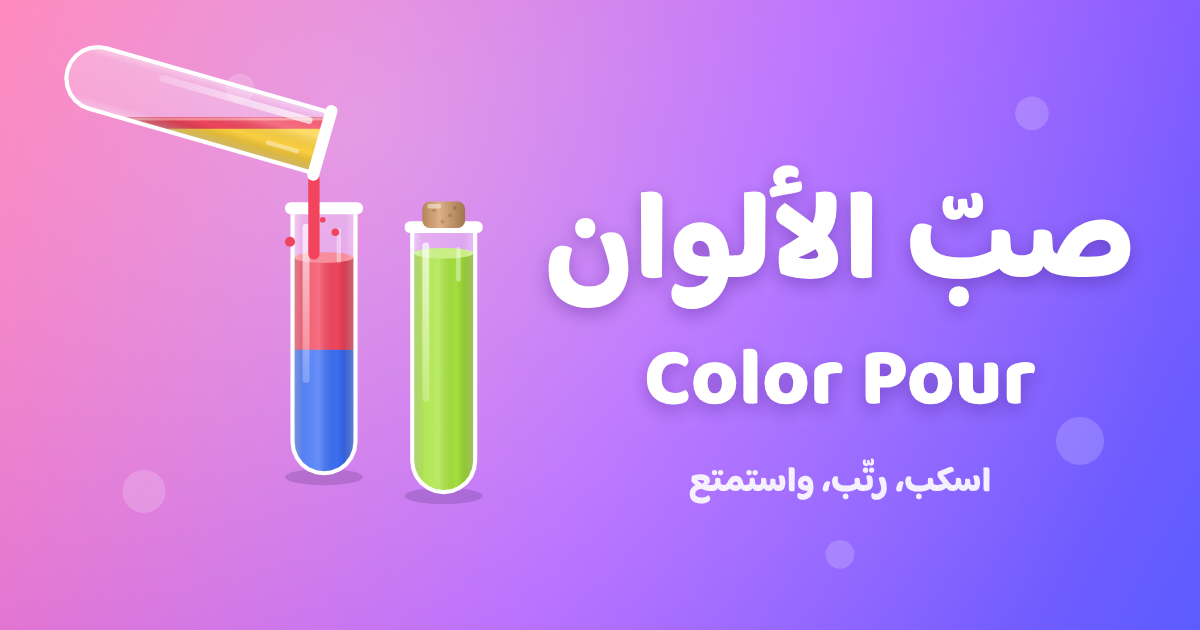
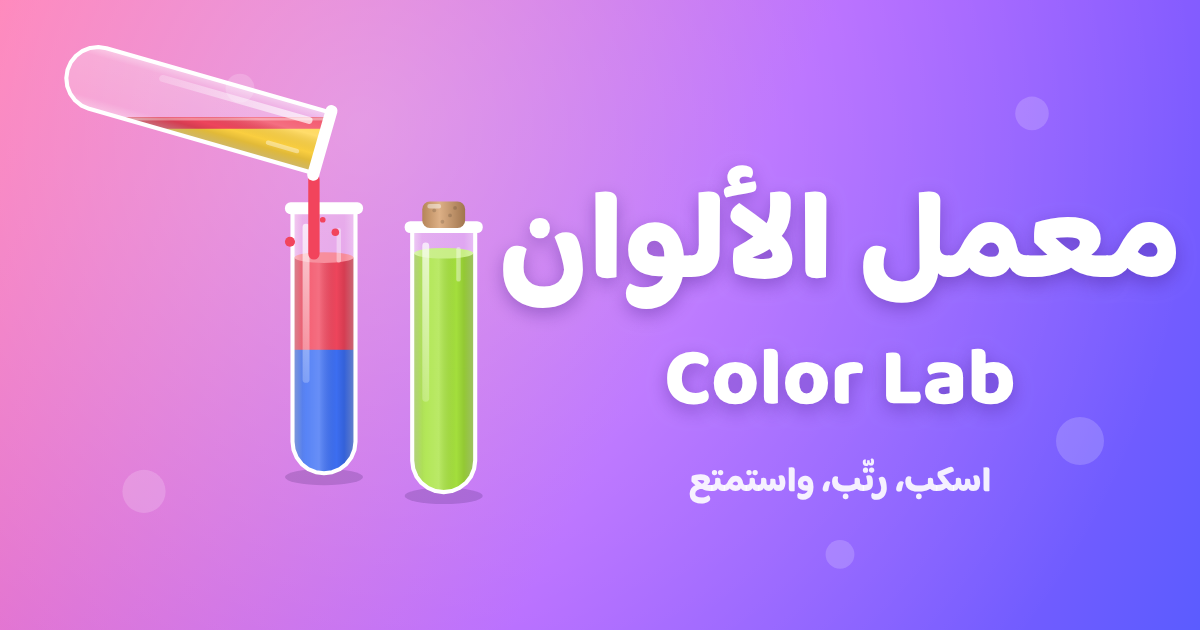
Rename the game to Color Lab / معمل الألوان
Claude-Session: https://claude.ai/code/session_018fWx3sb4k38H3yoaSVgWyv

Changed region(s): [[0.4008, 0.2413, 0.9867, 0.5127], [0.5242, 0.5429, 0.8633, 0.6635]]

diff --git a/tools/make-icons.js b/tools/make-icons.js
@@ -62,9 +62,9 @@ window.draw = (kind, w, h) => {
     ctx.textAlign = 'center';
     ctx.shadowColor = 'rgba(60,20,120,0.35)'; ctx.shadowBlur = 18; ctx.shadowOffsetY = 6;
     ctx.font = '800 ' + Math.round(h * 0.2) + 'px "Baloo Bhaijaan 2", sans-serif';
-    ctx.fillText('صبّ الألوان', w * 0.7, h * 0.44);
+    ctx.fillText('معمل الألوان', w * 0.7, h * 0.44);
     ctx.font = '800 ' + Math.round(h * 0.13) + 'px "Baloo Bhaijaan 2", sans-serif';
-    ctx.fillText('Color Pour', w * 0.7, h * 0.64);
+    ctx.fillText('Color Lab', w * 0.7, h * 0.64);
     ctx.shadowBlur = 0; ctx.shadowOffsetY = 0;
     ctx.font = '800 ' + Math.round(h * 0.055) + 'px "Baloo Bhaijaan 2", sans-serif';
     ctx.fillStyle = 'rgba(255,255,255,0.9)';
@@ -78,7 +78,7 @@ window.draw = (kind, w, h) => {
   const browser = await chromium.launch();
   const p = await browser.newPage();
   await p.setContent(page, { waitUntil: 'networkidle' }).catch(() => {});
-  await p.evaluate(async () => { await document.fonts.load('800 60px "Baloo Bhaijaan 2"', 'صبّ الألوان Color Pour'); await document.fonts.ready; });
+  await p.evaluate(async () => { await document.fonts.load('800 60px "Baloo Bhaijaan 2"', 'معمل الألوان Color Lab'); await document.fonts.ready; });
   console.log('font loaded:', await p.evaluate(() => document.fonts.check('800 60px "Baloo Bhaijaan 2"', 'صب')));
   const jobs = [
     ['icon', 512, 512, 'icon-512.png'], ['icon', 192, 192, 'icon-192.png'], ['icon', 180, 180, 'apple-touch-icon.png'],

diff --git a/src/index.html b/src/index.html
@@ -1,4 +1,4 @@
-<title>Color Pour</title>
+<title>Color Lab</title>
 <meta name="claude:viewport-fit-sides" content="cover">
 <link rel="preconnect" href="https://fonts.googleapis.com">
 <link rel="preconnect" href="https://fonts.gstatic.com" crossorigin>
@@ -50,7 +50,7 @@
 
       <div class="title-block">
         <div class="logo-frame">
-          <h1 class="logo">Color Pour</h1>
+          <h1 class="logo">Color Lab</h1>
           <svg class="logo-flask" viewBox="0 0 48 64" aria-hidden="true"><path d="M17 4h14v14l12 22a14 14 0 0 1-12 21H17A14 14 0 0 1 5 40l12-22z" fill="#FFFFFF" fill-opacity=".55" stroke="#FFFFFF" stroke-width="2.5"/><path d="M8.5 38h31l2 4a12 12 0 0 1-10.5 17H17A12 12 0 0 1 6.5 42z" fill="#FF4FA3"/><path d="M8.5 38h31l1 2H7.5z" fill="#FF9BCF"/><circle cx="20" cy="47" r="2.4" fill="#24123F"/><circle cx="28" cy="47" r="2.4" fill="#24123F"/><path d="M21.5 51.5q2.5 2.2 5 0" stroke="#24123F" stroke-width="1.6" fill="none" stroke-linecap="round"/><rect x="14" y="0" width="20" height="7" rx="3" fill="#D59C68"/><circle cx="38" cy="16" r="3" fill="#FFFFFF" opacity=".8"/><circle cx="43" cy="26" r="2" fill="#FFFFFF" opacity=".7"/></svg>
         </div>
       </div>

diff --git a/src/js/i18n.js b/src/js/i18n.js
@@ -5,7 +5,7 @@
 
   const dict = {
     en: {
-      appName: 'Color Pour',
+      appName: 'Color Lab',
       tagline: 'Pour, sort, relax',
       play: 'Play',
       level: 'Level {n}',
@@ -112,7 +112,7 @@
       phr_hi: 'Hi!', phr_gg: 'Good game!', phr_fast: 'Too fast for you', phr_wait: 'Wait for me!', phr_again: 'Again?', phr_wow: 'Wow!',
     },
     ar: {
-      appName: 'صبّ الألوان',
+      appName: 'معمل الألوان',
       tagline: 'اسكب، رتّب، واستمتع',
       play: 'العب',
       level: 'المستوى {n}',

diff --git a/tools/build.py b/tools/build.py
@@ -12,8 +12,8 @@ ROOT = Path(__file__).resolve().parent.parent
 SRC = ROOT / "src"
 DIST = ROOT / "dist"
 SITE_URL = "https://didamony.github.io/color-pour/"
-TITLE = "صبّ الألوان · Color Pour"
-DESCRIPTION = "لعبة ترتيب ألوان ممتعة: اسكب الألوان ورتّب كل لون في أنبوب. مستويات لا تنتهي، ومتجر، وهدية يومية، واللعب مع الأصدقاء."
+TITLE = "معمل الألوان · Color Lab"
+DESCRIPTION = "معمل الألوان: لعبة ترتيب ممتعة، اسكب الألوان ورتّب كل لون في أنبوب. مستويات لا تنتهي، ومتجر، وهدية يومية، واللعب مع الأصدقاء."
 
 HEAD = f"""<title>{TITLE}</title>
 <meta name="description" content="{DESCRIPTION}">
@@ -25,7 +25,7 @@ HEAD = f"""<title>{TITLE}</title>
 <link rel="manifest" href="manifest.webmanifest">
 <meta name="apple-mobile-web-app-capable" content="yes">
 <meta name="mobile-web-app-capable" content="yes">
-<meta name="apple-mobile-web-app-title" content="صبّ الألوان">
+<meta name="apple-mobile-web-app-title" content="معمل الألوان">
 <meta property="og:type" content="website">
 <meta property="og:url" content="{SITE_URL}">
 <meta property="og:title" content="{TITLE}">
@@ -45,7 +45,7 @@ if ('serviceWorker' in navigator && (location.protocol === 'https:' || location.
 MANIFEST = {
     "id": "./",
     "name": TITLE,
-    "short_name": "صبّ الألوان",
+    "short_name": "معمل الألوان",
     "description": DESCRIPTION,
     "start_url": "./",
     "scope": "./",

diff --git a/README.md b/README.md
@@ -1,4 +1,4 @@
-# Color Pour · صبّ الألوان
+# Color Lab · معمل الألوان
 
 A cute color-sorting puzzle in Arabic and English: pour liquids between tubes until every tube holds one color.
 
